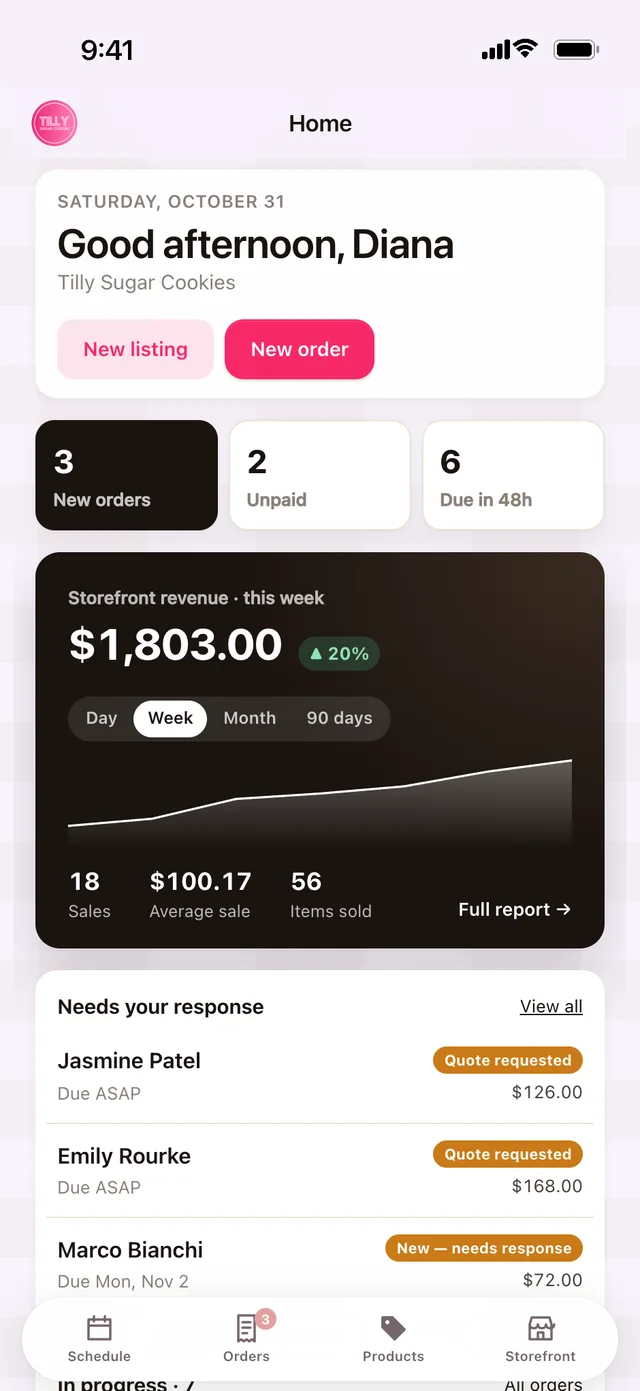
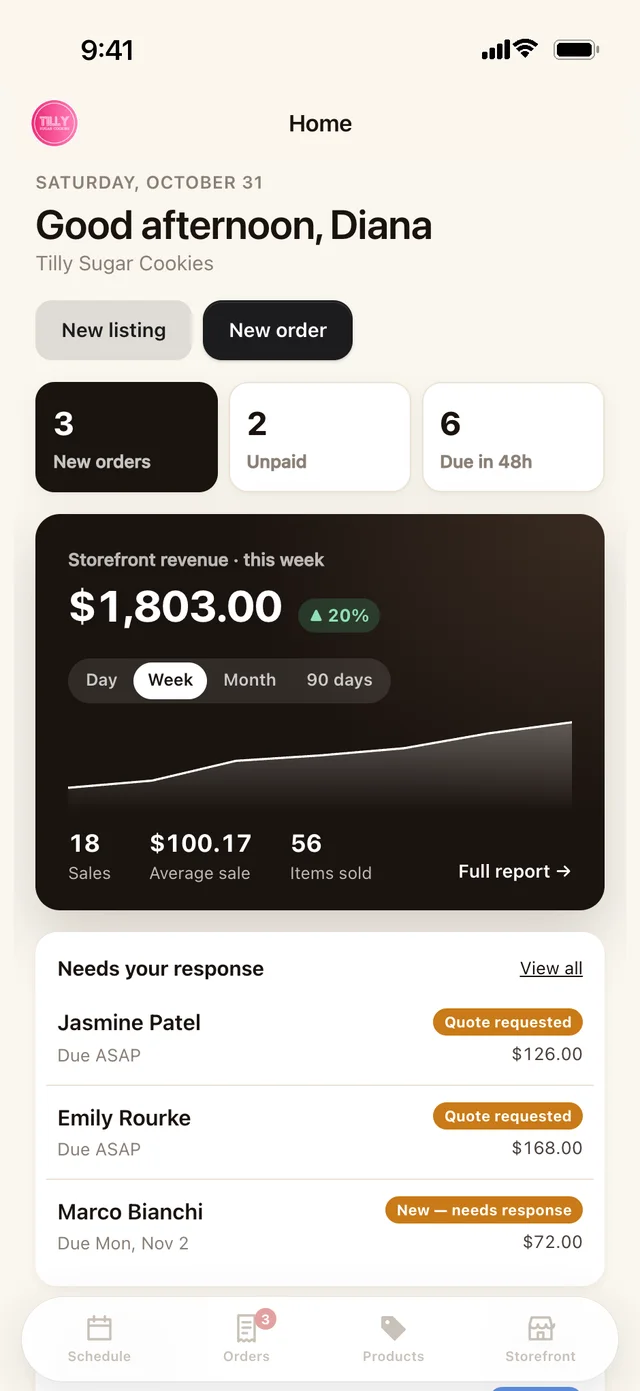
Preview: phone screenshots in the Classic theme

Changed region(s): [[0.0312, 0.1237, 0.9688, 1.0], [0.3438, 0.9274, 0.4062, 0.9892]]

diff --git a/for-creators.html b/for-creators.html
@@ -111,7 +111,7 @@
 </div>
 <div class="devices rv" role="img" aria-label="The Bakerï web app on a laptop and the Bakerï app on a phone, showing the same shop: new orders, this week’s revenue and orders waiting for a response">
 <div class="mac"><div class="mac-screen"><img src="assets/site-v3/app-desktop.webp?v=4" alt="" /></div><div class="mac-base"></div></div>
-<div class="phone dev-phone"><img src="assets/site-v3/app-home.webp?v=6" alt="" /></div>
+<div class="phone dev-phone"><img src="assets/site-v3/app-home.webp?v=7" alt="" /></div>
 </div>
 </div>
 </section>
@@ -119,8 +119,8 @@
 <div class="wrap">
 <div class="sec-head center rv"><span class="kick">No coding required</span><h2 class="h2">Launch your storefront <em class="sf">in minutes.</em></h2></div>
 <div class="steps">
-<div class="step rv"><div class="shot"><div class="phone"><img src="assets/site-v3/app-home.webp?v=6" alt="The Bakerï home screen: new orders, this week’s revenue and orders to respond to" /></div></div><div class="txt"><span class="num">1</span><h4>Tell us what you make</h4><p>Choose how you sell: food, digital, shipped, or all three.</p></div></div>
-<div class="step rv"><div class="shot"><div class="phone"><img src="assets/site-v3/app-products.webp?v=4" alt="Products in Bakerï: a cookie box, a decorating kit, a PDF guide and party favours" /></div></div><div class="txt"><span class="num">2</span><h4>Add your products</h4><p>Add photos, prices and fulfillment options, and set your availability.</p></div></div>
+<div class="step rv"><div class="shot"><div class="phone"><img src="assets/site-v3/app-home.webp?v=7" alt="The Bakerï home screen: new orders, this week’s revenue and orders to respond to" /></div></div><div class="txt"><span class="num">1</span><h4>Tell us what you make</h4><p>Choose how you sell: food, digital, shipped, or all three.</p></div></div>
+<div class="step rv"><div class="shot"><div class="phone"><img src="assets/site-v3/app-products.webp?v=5" alt="Products in Bakerï: a cookie box, a decorating kit, a PDF guide and party favours" /></div></div><div class="txt"><span class="num">2</span><h4>Add your products</h4><p>Add photos, prices and fulfillment options, and set your availability.</p></div></div>
 <div class="step rv"><div class="shot"><div class="bio bio-step"><span class="av av-tilly"></span><div><b>Tilly Sugar Cookies</b><span><svg viewBox="0 0 24 24" fill="none" stroke="currentColor" stroke-width="2.4" stroke-linecap="round" stroke-linejoin="round"><path d="M10 14a4 4 0 0 0 5.7 0l3-3a4 4 0 0 0-5.7-5.7l-1 1"/><path d="M14 10a4 4 0 0 0-5.7 0l-3 3a4 4 0 0 0 5.7 5.7l1-1"/></svg>bakeriapp.com/tillysugarcookies</span></div></div><div class="phone"><img src="assets/site-v3/screen-storefront.webp?v=3" alt="A finished Bakerï storefront" /></div></div><div class="txt"><span class="num">3</span><h4>Share your link</h4><p>Add it to your bio and start taking orders the same day.</p></div></div>
 </div>
 </div>
